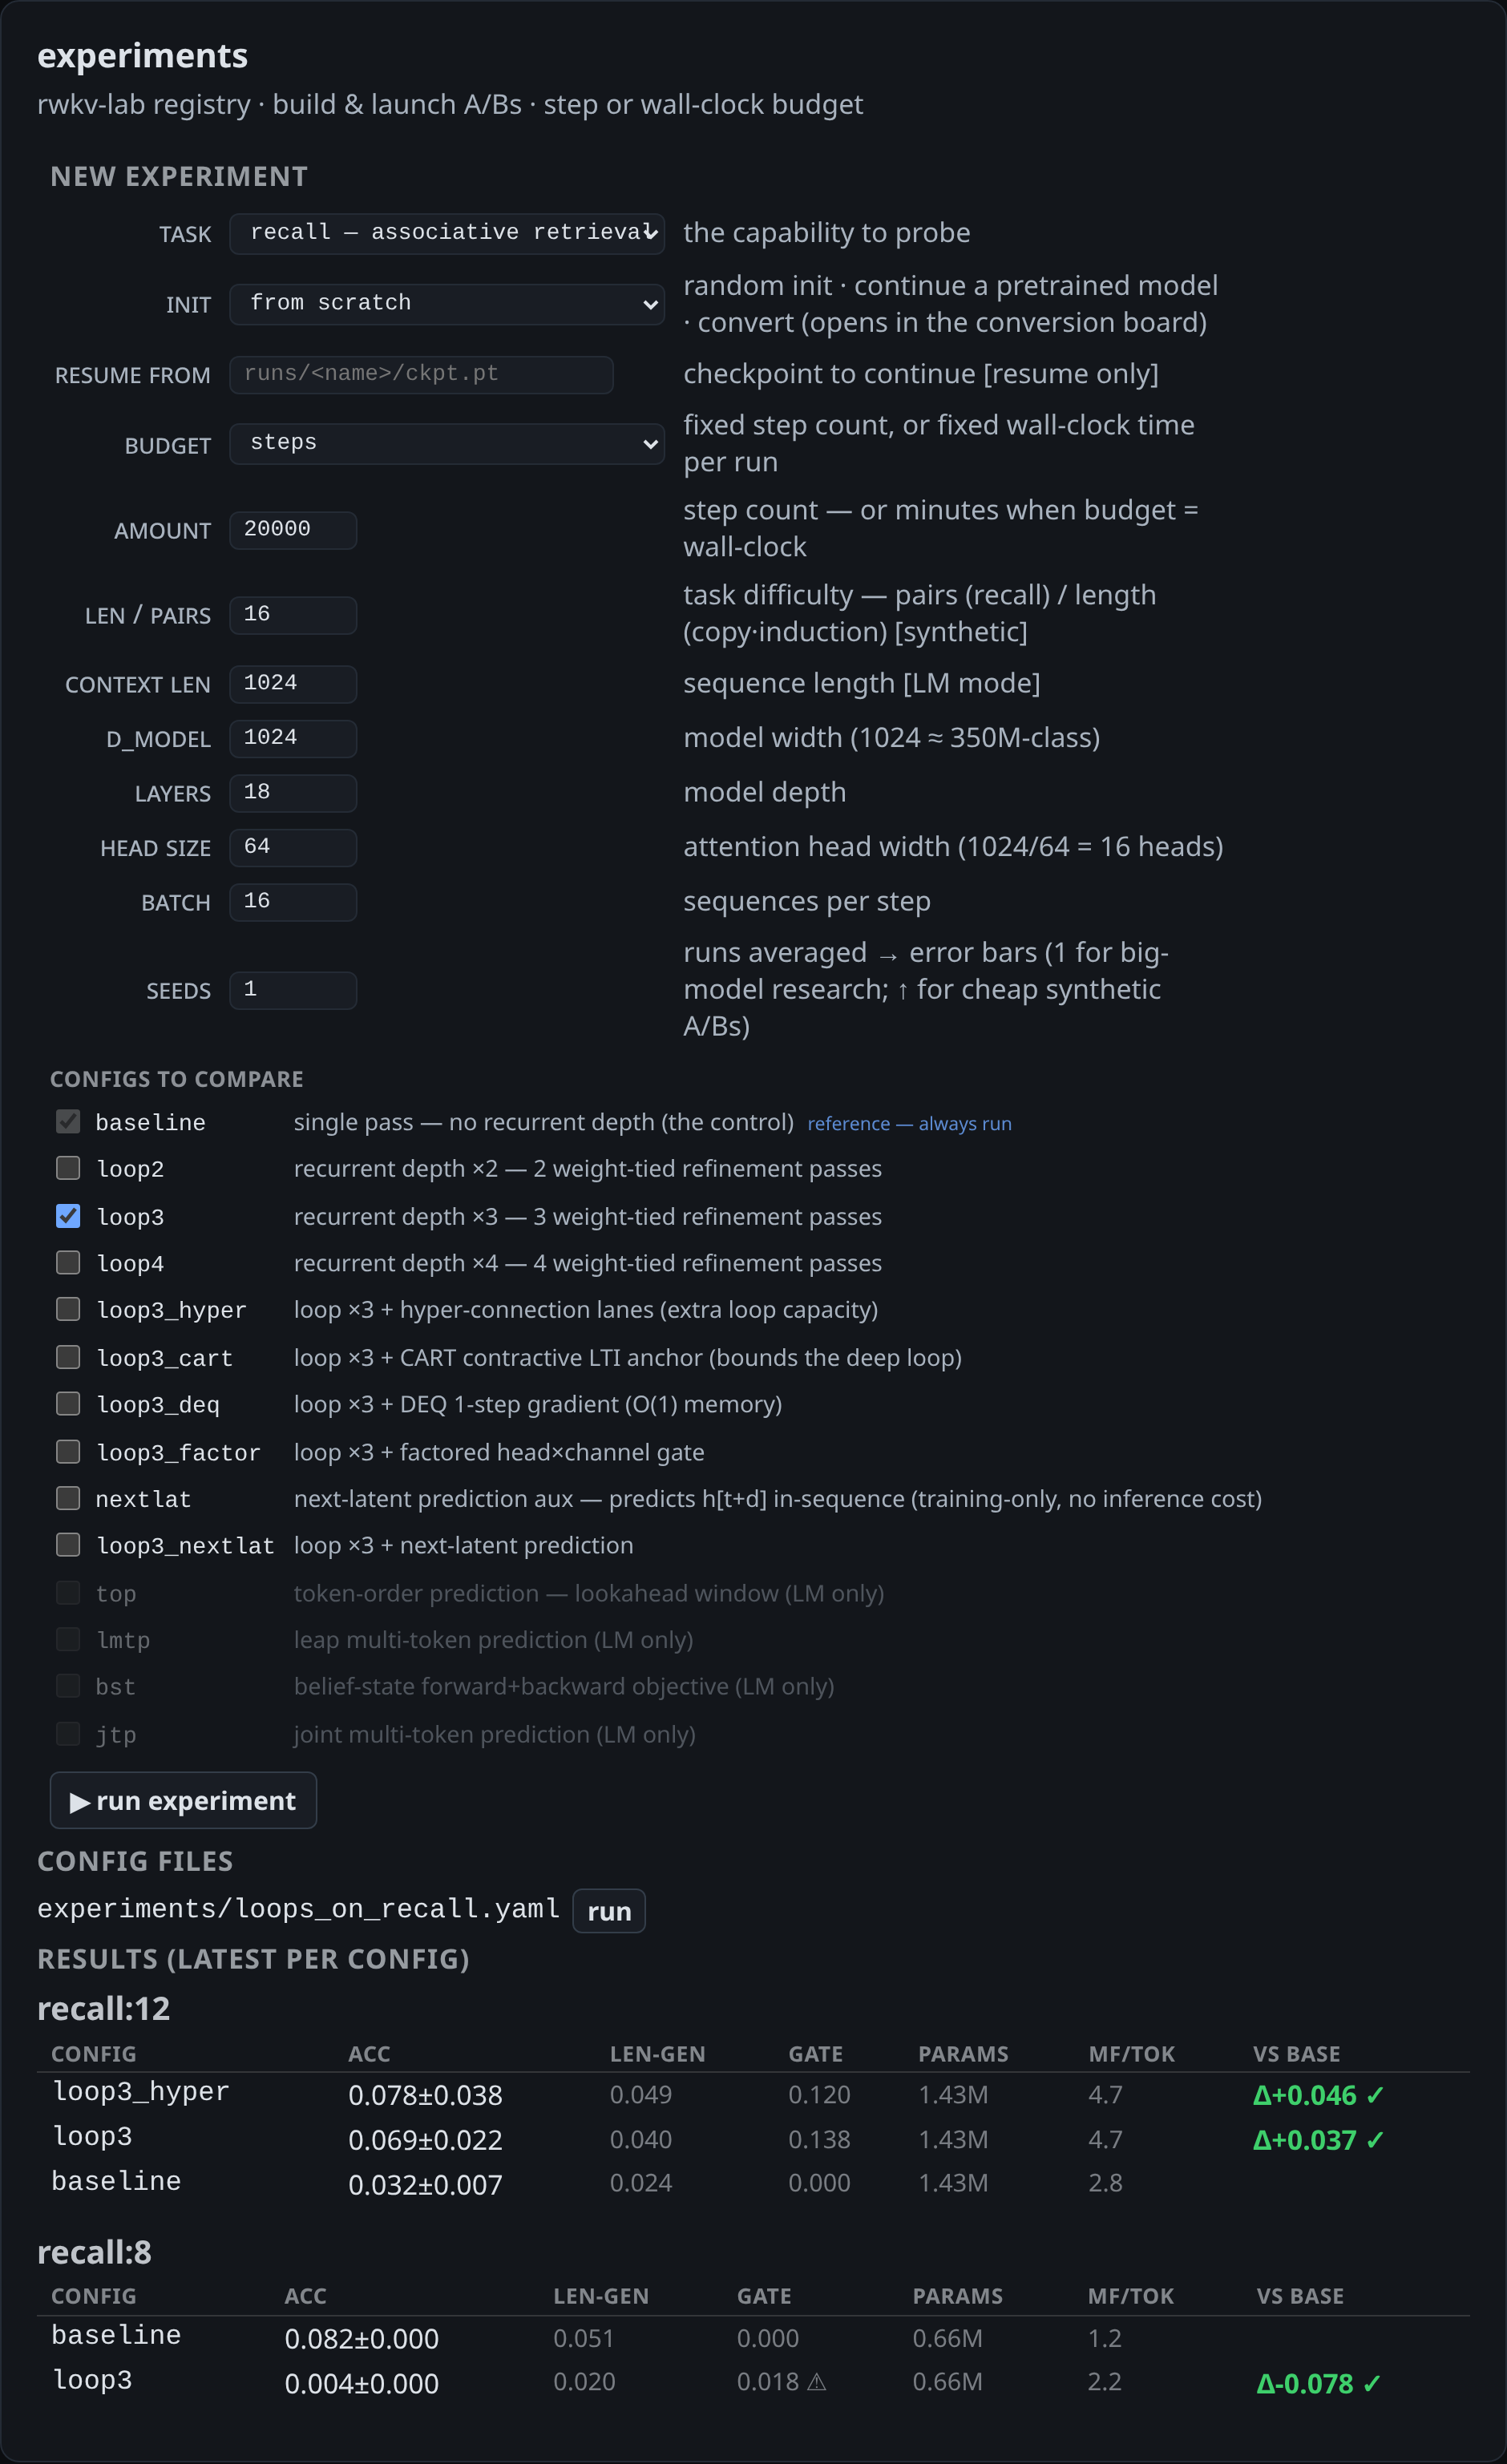
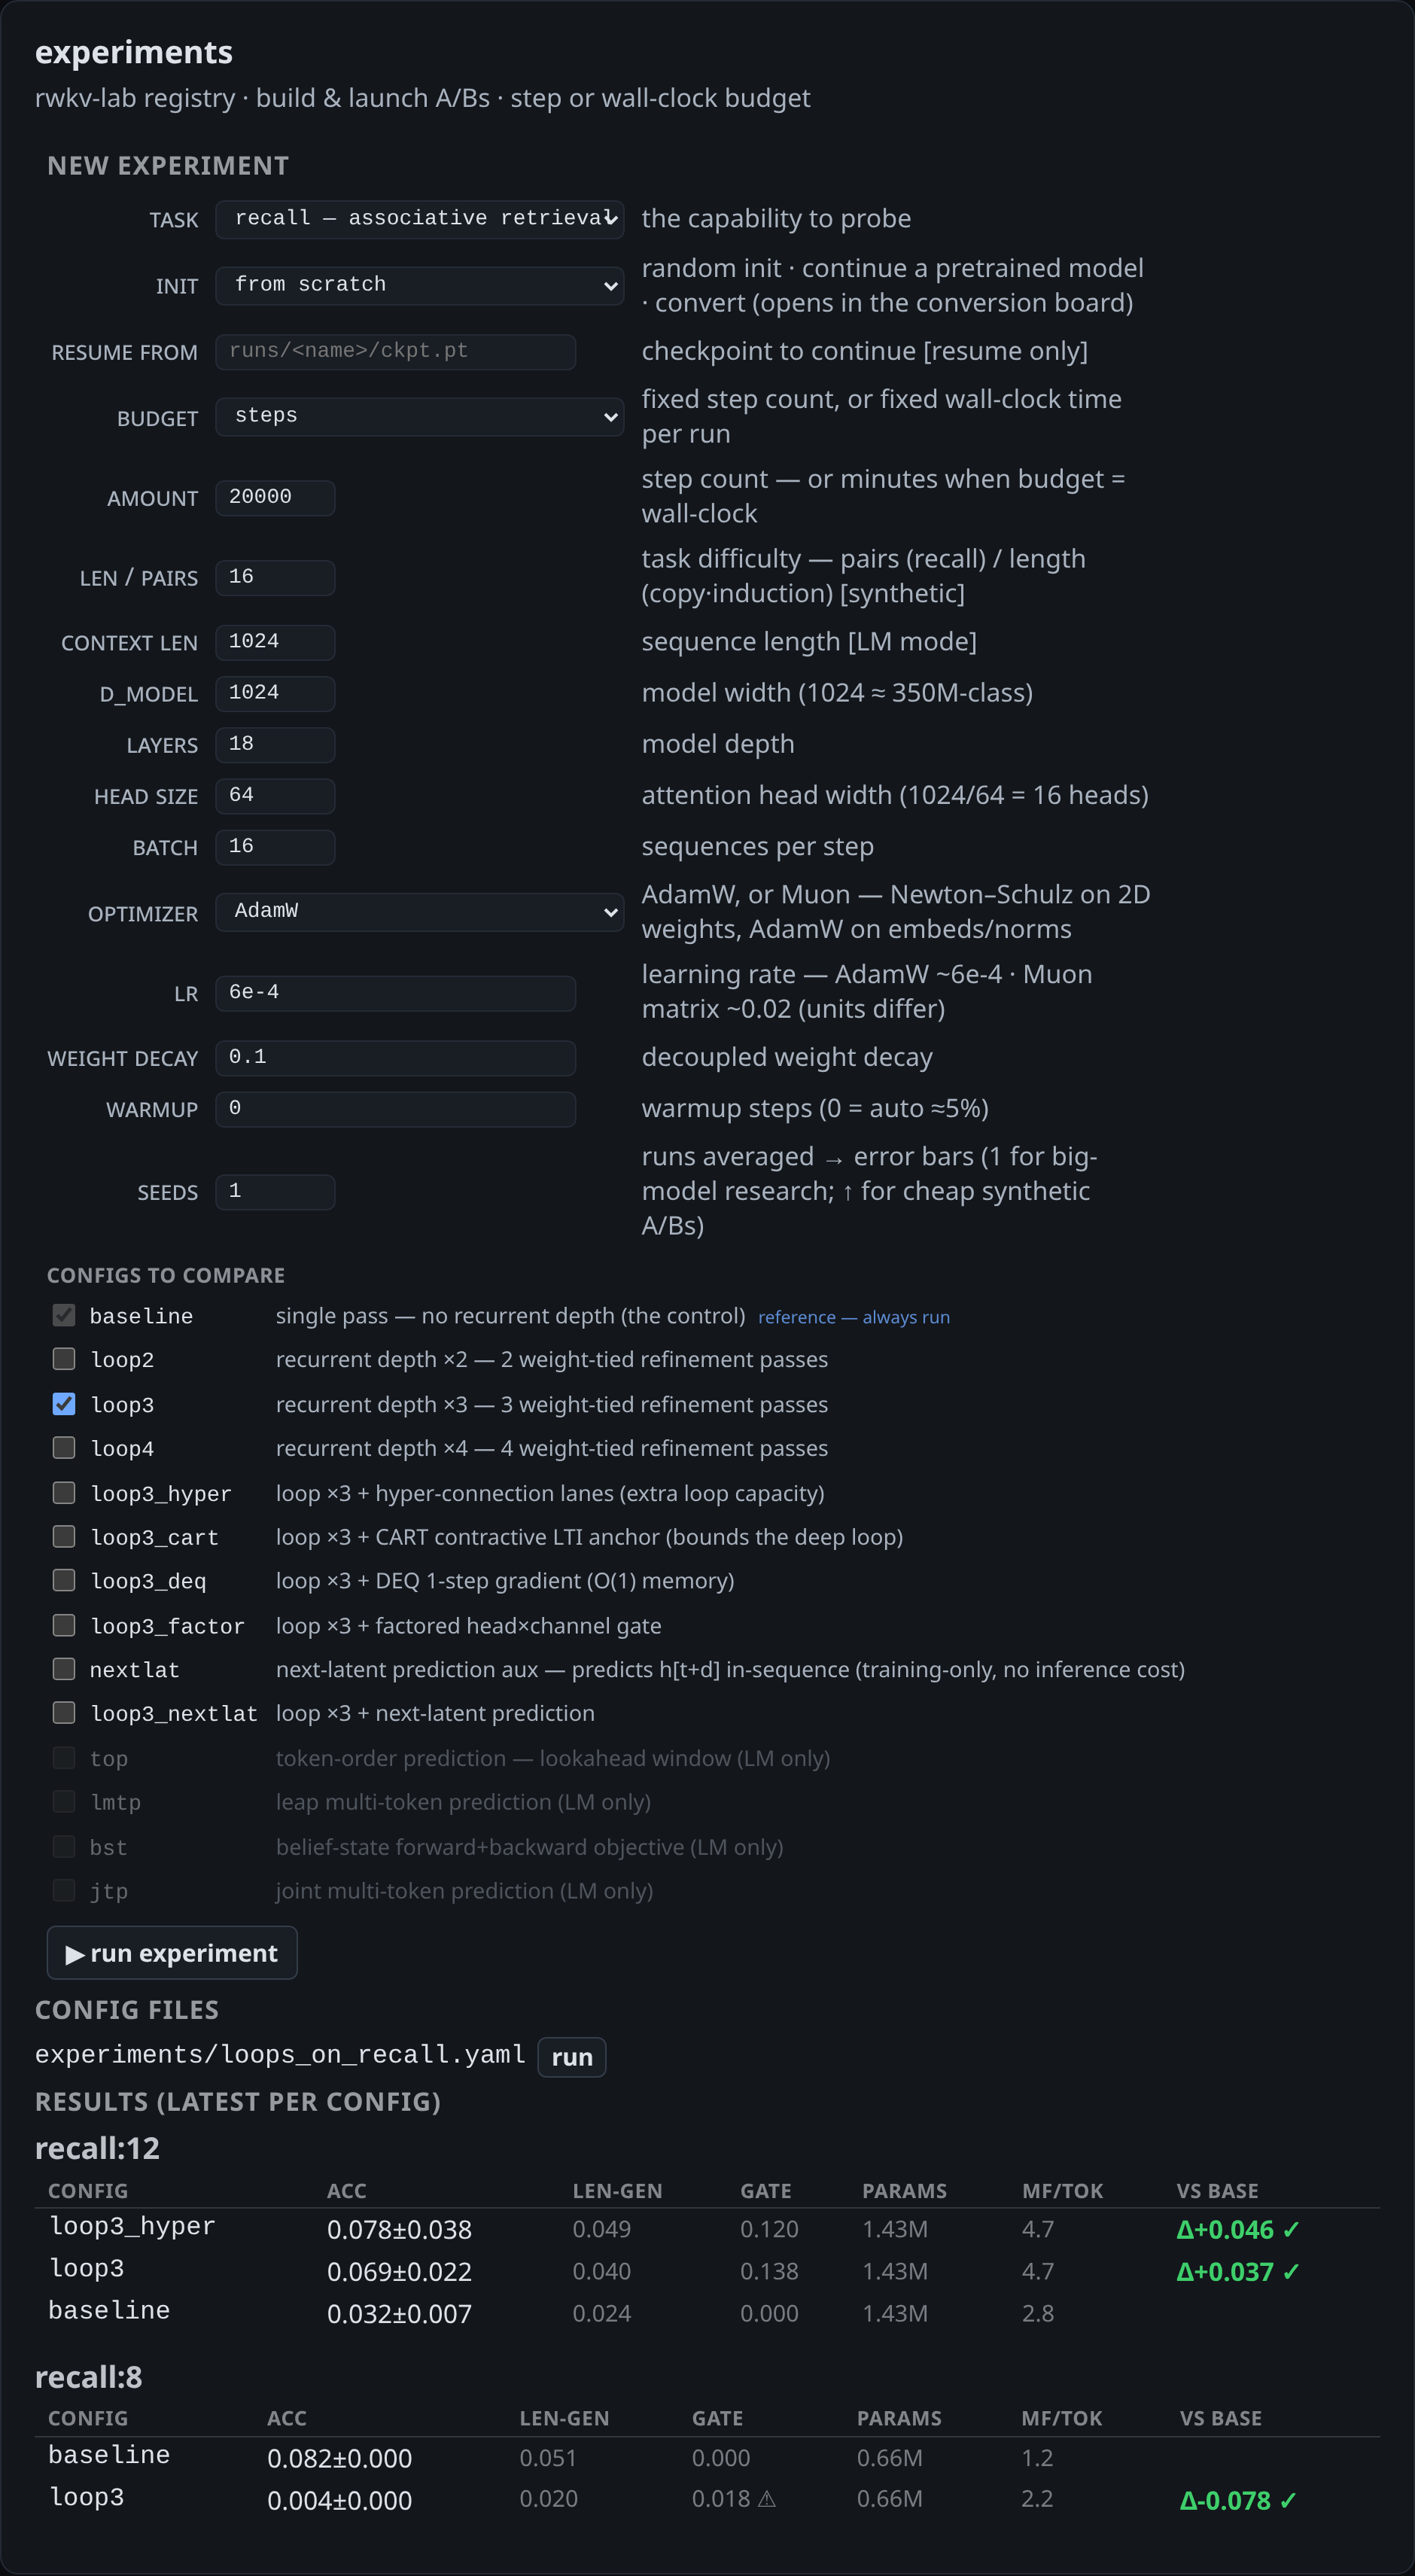
Experiments card: expose optimizer settings (AdamW / Muon · lr · weight decay · warmup)
Builder gains an optimizer dropdown (AdamW / Muon-spectral) + lr, weight-decay, warmup fields, wired
through both harnesses. Shared build_optimizer(named_params, name, lr, wd) in rwkv_pretrain: AdamW, or
SpectralMuon with the rwkv_finetune param split (Muon on 2D weight matrices, AdamW on embeds/norms/1D)
using SpectralMuon defaults for the --sm-* levers. rwkv_pretrain + experiment.train_eval both take
--optimizer/--weight-decay (+ experiment --warmup override) and call it instead of hardcoded AdamW.
config.run_lm/run-lm + synthetic config runs pass them through. lr hint flags that units differ
(AdamW ~6e-4 vs Muon matrix ~0.02).

Verified: muon trains on synthetic (SpectralMuon, no crash); board synthetic launch spawns
'experiment.py --optimizer muon --lr 0.02 --weight-decay 0.0'; 7 tests green. Screenshot refreshed.

diff --git a/src/rwkv_lab/rwkv_pretrain.py b/src/rwkv_lab/rwkv_pretrain.py
@@ -84,6 +84,24 @@ class RWKV7Small(nn.Module):
         return (logits, h) if return_hidden else logits
 
 
+def build_optimizer(named_params, name, lr, wd, adam_lr=0.0):
+    """AdamW, or spectral_muon (Muon on 2D weight matrices, AdamW on embeds/norms/1D). Shared by the
+    LM and synthetic harnesses so the card's optimizer dropdown drives both. adam_lr (0 = use lr) is
+    the fallback LR for non-matrix params under Muon — Muon matrix LRs run larger than AdamW's."""
+    named = [(n, p) for n, p in named_params if p.requires_grad]
+    if name == "muon":
+        from rwkv_lab.spectral_muon import SpectralMuon
+        muon, adam = [], []
+        for n, p in named:
+            is_mat = p.ndim == 2 and not any(k in n for k in ("emb", "head", "norm"))
+            (muon if is_mat else adam).append(p)
+        groups = [{"params": muon, "use_muon": True, "lr": lr},
+                  {"params": adam, "use_muon": False, "lr": adam_lr or lr}]
+        return SpectralMuon(groups, weight_decay=wd)
+    import torch as _t
+    return _t.optim.AdamW([p for _, p in named], lr=lr, betas=(0.9, 0.95), weight_decay=wd)
+
+
 def loop_kwargs(a):
     """Map --loop-* flags to LoopedRWKV kwargs. Empty dict => bare core (no loop wrapper)."""
     any_on = a.loop_count > 1 or a.loop_hyper or a.loop_cart_anchor or a.loop_deq \
@@ -109,6 +127,8 @@ def main():
     ap.add_argument("--val-windows", type=int, default=40); ap.add_argument("--eval-every", type=int, default=50)
     ap.add_argument("--log-every", type=int, default=10); ap.add_argument("--seed", type=int, default=0)
     ap.add_argument("--warmup", type=int, default=100)
+    ap.add_argument("--optimizer", default="adamw", choices=["adamw", "muon"])
+    ap.add_argument("--weight-decay", type=float, default=0.1)
     ap.add_argument("--lr-schedule", default="cosine", choices=["constant", "cosine"])
     ap.add_argument("--decay-steps", type=int, default=0)   # cosine horizon; 0 => use --steps
     ap.add_argument("--save", default=""); ap.add_argument("--resume", default="")
@@ -199,8 +219,9 @@ def main():
                                 bst_weight=args.bst_weight, jtp_weight=args.jtp_weight,
                                 lm_head=model.head).to(dev, torch.bfloat16)
         print(f"aux heads enabled={heads.enabled} extra_tokens={heads.extra_tokens}", flush=True)
-    params = list(model.parameters()) + (list(heads.parameters()) if heads else [])
-    opt = torch.optim.AdamW(params, lr=args.lr, betas=(0.9, 0.95), weight_decay=0.1)
+    named = list(model.named_parameters()) + (list(heads.named_parameters()) if heads else [])
+    opt = build_optimizer(named, args.optimizer, args.lr, args.weight_decay)
+    print(f"optimizer={args.optimizer} lr={args.lr} wd={args.weight_decay}", flush=True)
     step = 0
     if args.resume and os.path.exists(args.resume):
         ck = torch.load(args.resume, map_location=dev)

diff --git a/dashboard/internal/server/experiments.go b/dashboard/internal/server/experiments.go
@@ -180,6 +180,17 @@ func (s *Server) handleExperiments(w http.ResponseWriter, r *http.Request) {
 	numField("layers", "nlayers", "model depth", 18)
 	numField("head size", "headsize", "attention head width (1024/64 = 16 heads)", 64)
 	numField("batch", "batch", "sequences per step", 16)
+	// optimizer settings
+	b.WriteString(`<tr><td class="f-l">optimizer</td><td><select data-bind-optimizer>` +
+		`<option value="adamw">AdamW</option><option value="muon">Muon (spectral)</option>` +
+		`</select></td><td class="f-d">AdamW, or Muon — Newton–Schulz on 2D weights, AdamW on embeds/norms</td></tr>`)
+	strField := func(label, sig, hint, def string) {
+		fmt.Fprintf(&b, `<tr><td class="f-l">%s</td><td><input type="text" data-bind-%s value="%s"></td>`+
+			`<td class="f-d">%s</td></tr>`, label, sig, def, esc(hint))
+	}
+	strField("lr", "lr", "learning rate — AdamW ~6e-4 · Muon matrix ~0.02 (units differ)", "6e-4")
+	strField("weight decay", "wd", "decoupled weight decay", "0.1")
+	strField("warmup", "warmup", "warmup steps (0 = auto ≈5%)", "0")
 	numField("seeds", "seeds", "runs averaged → error bars (1 for big-model research; ↑ for cheap synthetic A/Bs)", 1)
 	b.WriteString(`</table>`)
 	b.WriteString(`<div class="exp-levs"><div class="lev-h">configs to compare</div><table class="lev-tbl">`)
@@ -301,6 +312,11 @@ func (s *Server) handleLaunchExperiment(w http.ResponseWriter, r *http.Request) 
 	if str("budget", "steps") == "minutes" {
 		budget = []string{"--minutes", str("amount", "10")}
 	}
+	optArgs := []string{"--optimizer", str("optimizer", "adamw"), "--lr", str("lr", "6e-4"),
+		"--weight-decay", str("wd", "0.1")}
+	if wu := str("warmup", "0"); wu != "" && wu != "0" {
+		optArgs = append(optArgs, "--warmup", wu)
+	}
 	init := str("init", "scratch")
 	if init == "convert" { // per-layer GDN→RWKV distillation — not a config sweep
 		toast(sse, "conversion (GDN→RWKV) runs in the conversion board / queue — it's per-layer teacher distillation, not a compare-configs sweep")
@@ -311,6 +327,7 @@ func (s *Server) handleLaunchExperiment(w http.ResponseWriter, r *http.Request) 
 		args := append([]string{"-m", "rwkv_lab.config", "run-lm", "--levers", strings.Join(configs, ","),
 			"--d-model", str("dmodel", "1024"), "--n-layers", str("nlayers", "18"), "--head-size", str("headsize", "64"),
 			"--batch", str("batch", "16"), "--seq-len", str("ctxlen", "1024")}, budget...)
+		args = append(args, optArgs...)
 		note := "from scratch"
 		if init == "g1g" {
 			args = append(args, "--init-g1g", "models/rwkv7-g1g-1.5b.pth")
@@ -340,6 +357,7 @@ func (s *Server) handleLaunchExperiment(w http.ResponseWriter, r *http.Request) 
 		"--task", task + ":" + str("tasklen", "16"), "--configs", strings.Join(configs, ","),
 		"--seeds", str("seeds", "1"), "--d-model", str("dmodel", "1024"), "--n-layers", str("nlayers", "18"),
 		"--head-size", str("headsize", "64"), "--batch", str("batch", "16")}, budget...)
+	args = append(args, optArgs...)
 	pid, err := s.spawnPy(args, "exp_"+task+".log")
 	if err != nil {
 		toastErr(sse, "launch: "+err.Error())

diff --git a/src/rwkv_lab/experiment.py b/src/rwkv_lab/experiment.py
@@ -21,7 +21,7 @@ import numpy as np
 import torch
 import torch.nn.functional as F
 
-from rwkv_lab.rwkv_pretrain import RWKV7Small
+from rwkv_lab.rwkv_pretrain import RWKV7Small, build_optimizer
 from rwkv_lab.synthetic_tasks import make_task, Task
 from rwkv_lab.looped_rwkv import LoopedRWKV
 from rwkv_lab import registry
@@ -136,7 +136,8 @@ def preflight(task, d_model, n_layers, head_size, lever, device, batch, steps=20
     return True, f"ok (loss {losses[0]:.2f} -> {losses[-1]:.2f})"
 
 
-def train_eval(task, d_model, n_layers, head_size, lever, seed, device, steps, batch, lr, minutes=0.0):
+def train_eval(task, d_model, n_layers, head_size, lever, seed, device, steps, batch, lr, minutes=0.0,
+               optimizer="adamw", weight_decay=0.01, warmup=0):
     """Train one model on the task; return metrics incl. length-generalization accuracy. Budget is
     either a fixed step count (minutes=0) or wall-clock minutes (Karpathy-style fixed-time rounds)."""
     torch.manual_seed(seed); rng = np.random.default_rng(seed)
@@ -146,9 +147,10 @@ def train_eval(task, d_model, n_layers, head_size, lever, seed, device, steps, b
     if aux:                                                  # latent-prediction aux (e.g. nextlat)
         from rwkv_lab.lookahead_module import LookaheadSystem
         heads = LookaheadSystem(d_model, task.vocab, **aux).to(device, torch.bfloat16)
-    params = list(model.parameters()) + (list(heads.parameters()) if heads else [])
-    opt = torch.optim.AdamW(params, lr=lr, betas=(0.9, 0.95), weight_decay=0.01)
-    warm = max(1, (steps or 2000) // 20)
+    named = list(model.named_parameters()) + (list(heads.named_parameters()) if heads else [])
+    params = [p for _, p in named]
+    opt = build_optimizer(named, optimizer, lr, weight_decay)
+    warm = warmup if warmup > 0 else max(1, (steps or 2000) // 20)
     t0 = time.time()
     step = 0
     while (time.time() - t0 < minutes * 60) if minutes > 0 else (step < steps):
@@ -193,6 +195,9 @@ def main():
     ap.add_argument("--seeds", type=int, default=3)
     ap.add_argument("--steps", type=int, default=3000)
     ap.add_argument("--minutes", type=float, default=0.0, help="wall-clock budget per run (0 = use --steps)")
+    ap.add_argument("--optimizer", default="adamw", choices=["adamw", "muon"])
+    ap.add_argument("--weight-decay", type=float, default=0.01)
+    ap.add_argument("--warmup", type=int, default=0, help="warmup steps (0 = auto, about 5 percent)")
     ap.add_argument("--d-model", type=int, default=256); ap.add_argument("--n-layers", type=int, default=4)
     ap.add_argument("--head-size", type=int, default=64); ap.add_argument("--batch", type=int, default=64)
     ap.add_argument("--lr", type=float, default=3e-3)
@@ -212,7 +217,8 @@ def main():
         t0 = time.time()
         for s in range(args.seeds):
             runs.append(train_eval(task, args.d_model, args.n_layers, args.head_size, cfg, s,
-                                   dev, args.steps, args.batch, args.lr, args.minutes))
+                                   dev, args.steps, args.batch, args.lr, args.minutes,
+                                   args.optimizer, args.weight_decay, args.warmup))
         keys = runs[0].keys()
         results[cfg] = {k: _agg([r[k] for r in runs if k in r]) for k in keys}
         results[cfg]["_n"] = len(runs)

diff --git a/src/rwkv_lab/config.py b/src/rwkv_lab/config.py
@@ -64,7 +64,9 @@ def _run_synthetic(task_spec, cfg):
         ok, why = E.preflight(task, dm, nl, hs, name, dev, batch)
         if not ok:
             print(f"  [{name}] PREFLIGHT REJECTED: {why}", flush=True); continue
-        runs = [E.train_eval(task, dm, nl, hs, name, s, dev, steps, batch, lr, minutes) for s in range(seeds)]
+        runs = [E.train_eval(task, dm, nl, hs, name, s, dev, steps, batch, lr, minutes,
+                             tr.get("optimizer", "adamw"), float(tr.get("weight_decay", 0.01)),
+                             int(tr.get("warmup", 0))) for s in range(seeds)]
         agg = {k: E._agg([r[k] for r in runs if k in r]) for k in runs[0]}
         registry.record(task_spec, name, seeds, steps, {k: list(v) for k, v in agg.items()})
         results[name] = agg
@@ -126,7 +128,11 @@ def run_lm(levers, model, train):
         cmd = [sys.executable, "-m", "rwkv_lab.rwkv_pretrain", "--data", bin_path, "--out", f"runs/lm_{name}",
                "--d-model", str(model.get("d_model", 256)), "--n-layers", str(model.get("n_layers", 4)),
                "--head-size", str(model.get("head_size", 64)), "--batch", str(train.get("batch", 16)),
-               "--seq-len", str(train.get("seq_len", 512)), "--lr", str(train.get("lr", 6e-4))]
+               "--seq-len", str(train.get("seq_len", 512)), "--lr", str(train.get("lr", 6e-4)),
+               "--optimizer", str(train.get("optimizer", "adamw")),
+               "--weight-decay", str(train.get("weight_decay", 0.1))]
+        if train.get("warmup"):
+            cmd += ["--warmup", str(train["warmup"])]
         cmd += (["--minutes", str(train["minutes"])] if train.get("minutes")     # wall-clock budget
                 else ["--steps", str(train.get("steps", 2000))])
         if off_path:
@@ -154,12 +160,16 @@ def main():
     rl.add_argument("--lr", type=float, default=6e-4)
     rl.add_argument("--init-g1g", default="")               # continued pretraining from g1g
     rl.add_argument("--resume", default="")                 # continue from a saved run checkpoint
+    rl.add_argument("--optimizer", default="adamw")
+    rl.add_argument("--weight-decay", type=float, default=0.1)
+    rl.add_argument("--warmup", type=int, default=0)
     args = ap.parse_args()
     if args.cmd == "run-lm":
         run_lm(args.levers.split(","),
                {"d_model": args.d_model, "n_layers": args.n_layers, "head_size": args.head_size},
                {"steps": args.steps, "minutes": args.minutes, "seq_len": args.seq_len,
-                "batch": args.batch, "lr": args.lr, "init_g1g": args.init_g1g, "resume": args.resume})
+                "batch": args.batch, "lr": args.lr, "init_g1g": args.init_g1g, "resume": args.resume,
+                "optimizer": args.optimizer, "weight_decay": args.weight_decay, "warmup": args.warmup})
     else:
         run(args.config)
 